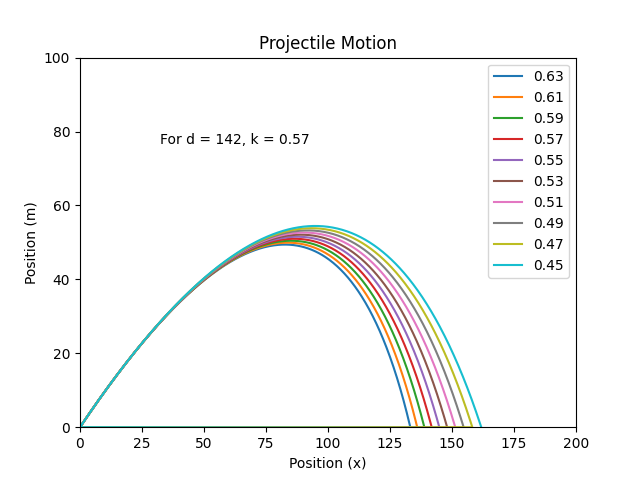
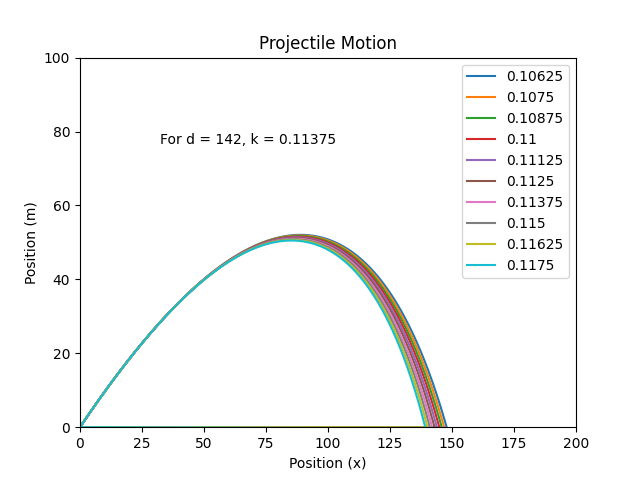
2-55 Fixes

diff --git a/Chapter 2/2-55.py b/Chapter 2/2-55.py
@@ -24,27 +24,27 @@ XAcceleration = np.zeros((Iterations, Steps))
 YVelocity = np.zeros((Iterations, Steps))
 XVelocity = np.zeros((Iterations, Steps))
 KConstant = np.zeros((Iterations))
-KSteps = 0.02
+KSteps = 0.00125
 Gravity = 10
 
 for i in range(Iterations):
     Time[0] = 0
-    KConstant[i] = 0.65 - (KSteps * ( i + 1 ))
-    KConstant[i] = round(KConstant[i],2)
+    KConstant[i] = 0.105 + (KSteps * ( i + 1 ))
+    KConstant[i] = round(KConstant[i],5)
     YPosition[i][0] = 0
     XPosition[i][0] = 0
     YVelocity[i][0] = Vyi
     XVelocity[i][0] = Vxi
-    XAcceleration[i][0] = -KConstant[i] * XVelocity[i][0] / Mass
-    YAcceleration[i][0] = -KConstant[i] * YVelocity[i][0] / Mass - Gravity
+    XAcceleration[i][0] = -KConstant[i] * XVelocity[i][0]
+    YAcceleration[i][0] = -KConstant[i] * YVelocity[i][0] - Gravity
     for j in range(1,Steps):
         Time[j] = j * dT
         YPosition[i][j] = YPosition[i][j-1] + YVelocity[i][j-1] * dT
         YVelocity[i][j] = YVelocity[i][j-1] + YAcceleration[i][j-1] * dT
-        YAcceleration[i][j] = -KConstant[i] * YVelocity[i][0] / Mass - Gravity
+        YAcceleration[i][j] = -KConstant[i] * YVelocity[i][0] - Gravity
         XPosition[i][j] = XPosition[i][j-1] + XVelocity[i][j-1] * dT
         XVelocity[i][j] = XVelocity[i][j-1] + XAcceleration[i][j-1] * dT
-        XAcceleration[i][j] = -KConstant[i] * XVelocity[i][0] / Mass
+        XAcceleration[i][j] = -KConstant[i] * XVelocity[i][0]
         if(YPosition[i][j] < 0):
             print(KConstant[i], XPosition[i][j])
             break
@@ -56,6 +56,6 @@ plt.legend(KConstant)
 plt.title('Projectile Motion')
 plt.ylabel('Position (m)')
 plt.xlabel('Position (x)')
-plt.figtext(0.25, 0.7, 'For d = 142, k = 0.57')
+plt.figtext(0.25, 0.7, 'For d = 142, k = 0.11375')
 plt.savefig(Directory + '/2-55_ProjectileMotion')
 plt.show()
